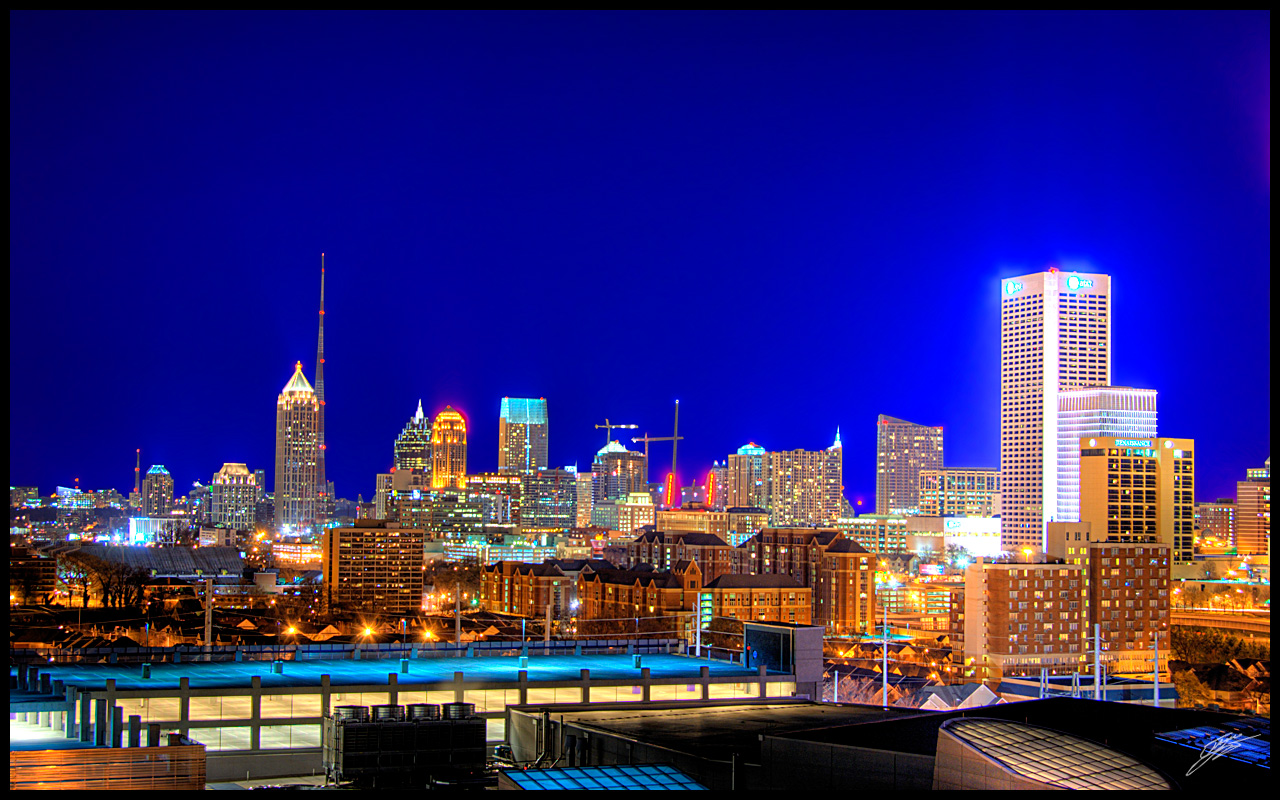
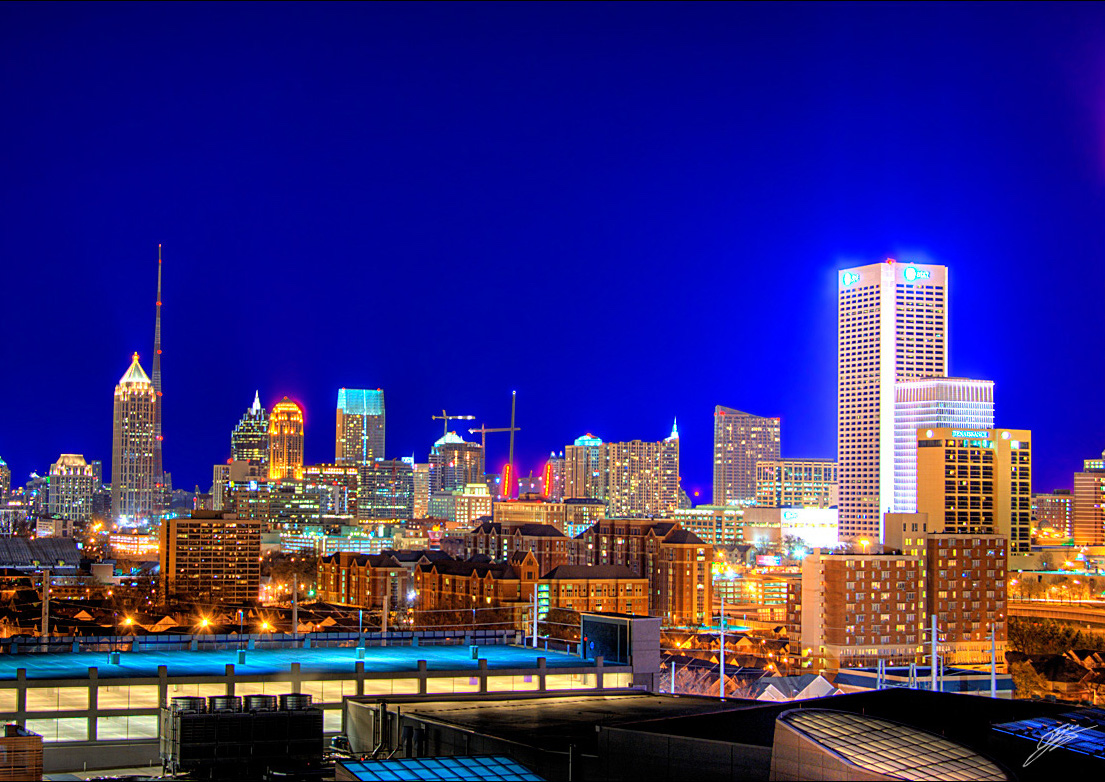
added atlanta

diff --git a/_includes/fullcal.html b/_includes/fullcal.html
@@ -77,6 +77,12 @@
           className: 'KC',
           textColor: "white",
           backgroundColor: "black"
+        },
+				{
+          googleCalendarId: 'k6son8ohgsb7cghh9u66d7vkr9mekk1n@import.calendar.google.com',
+          className: 'ATL',
+          textColor: "white",
+          backgroundColor: "black"
         }
       ],
       views: {

diff --git a/cities/index.md b/cities/index.md
@@ -118,4 +118,12 @@ modified: 2016-03-17T11:46:38.564948-04:00
 <a markdown="0" href="http://www.meetup.com/acm-kansas-city/" class="btn">Meetup</a>
 </h3>
 </div>
+<div class="meetup_img">
+<img src="/images/cities-atlanta.jpg" />
+<h3>
+<span>Atlanta</span>
+<br />
+<a markdown="0" href="http://www.meetup.com/acm-atlanta/" class="btn">Meetup</a>
+</h3>
+</div>
 </section>
